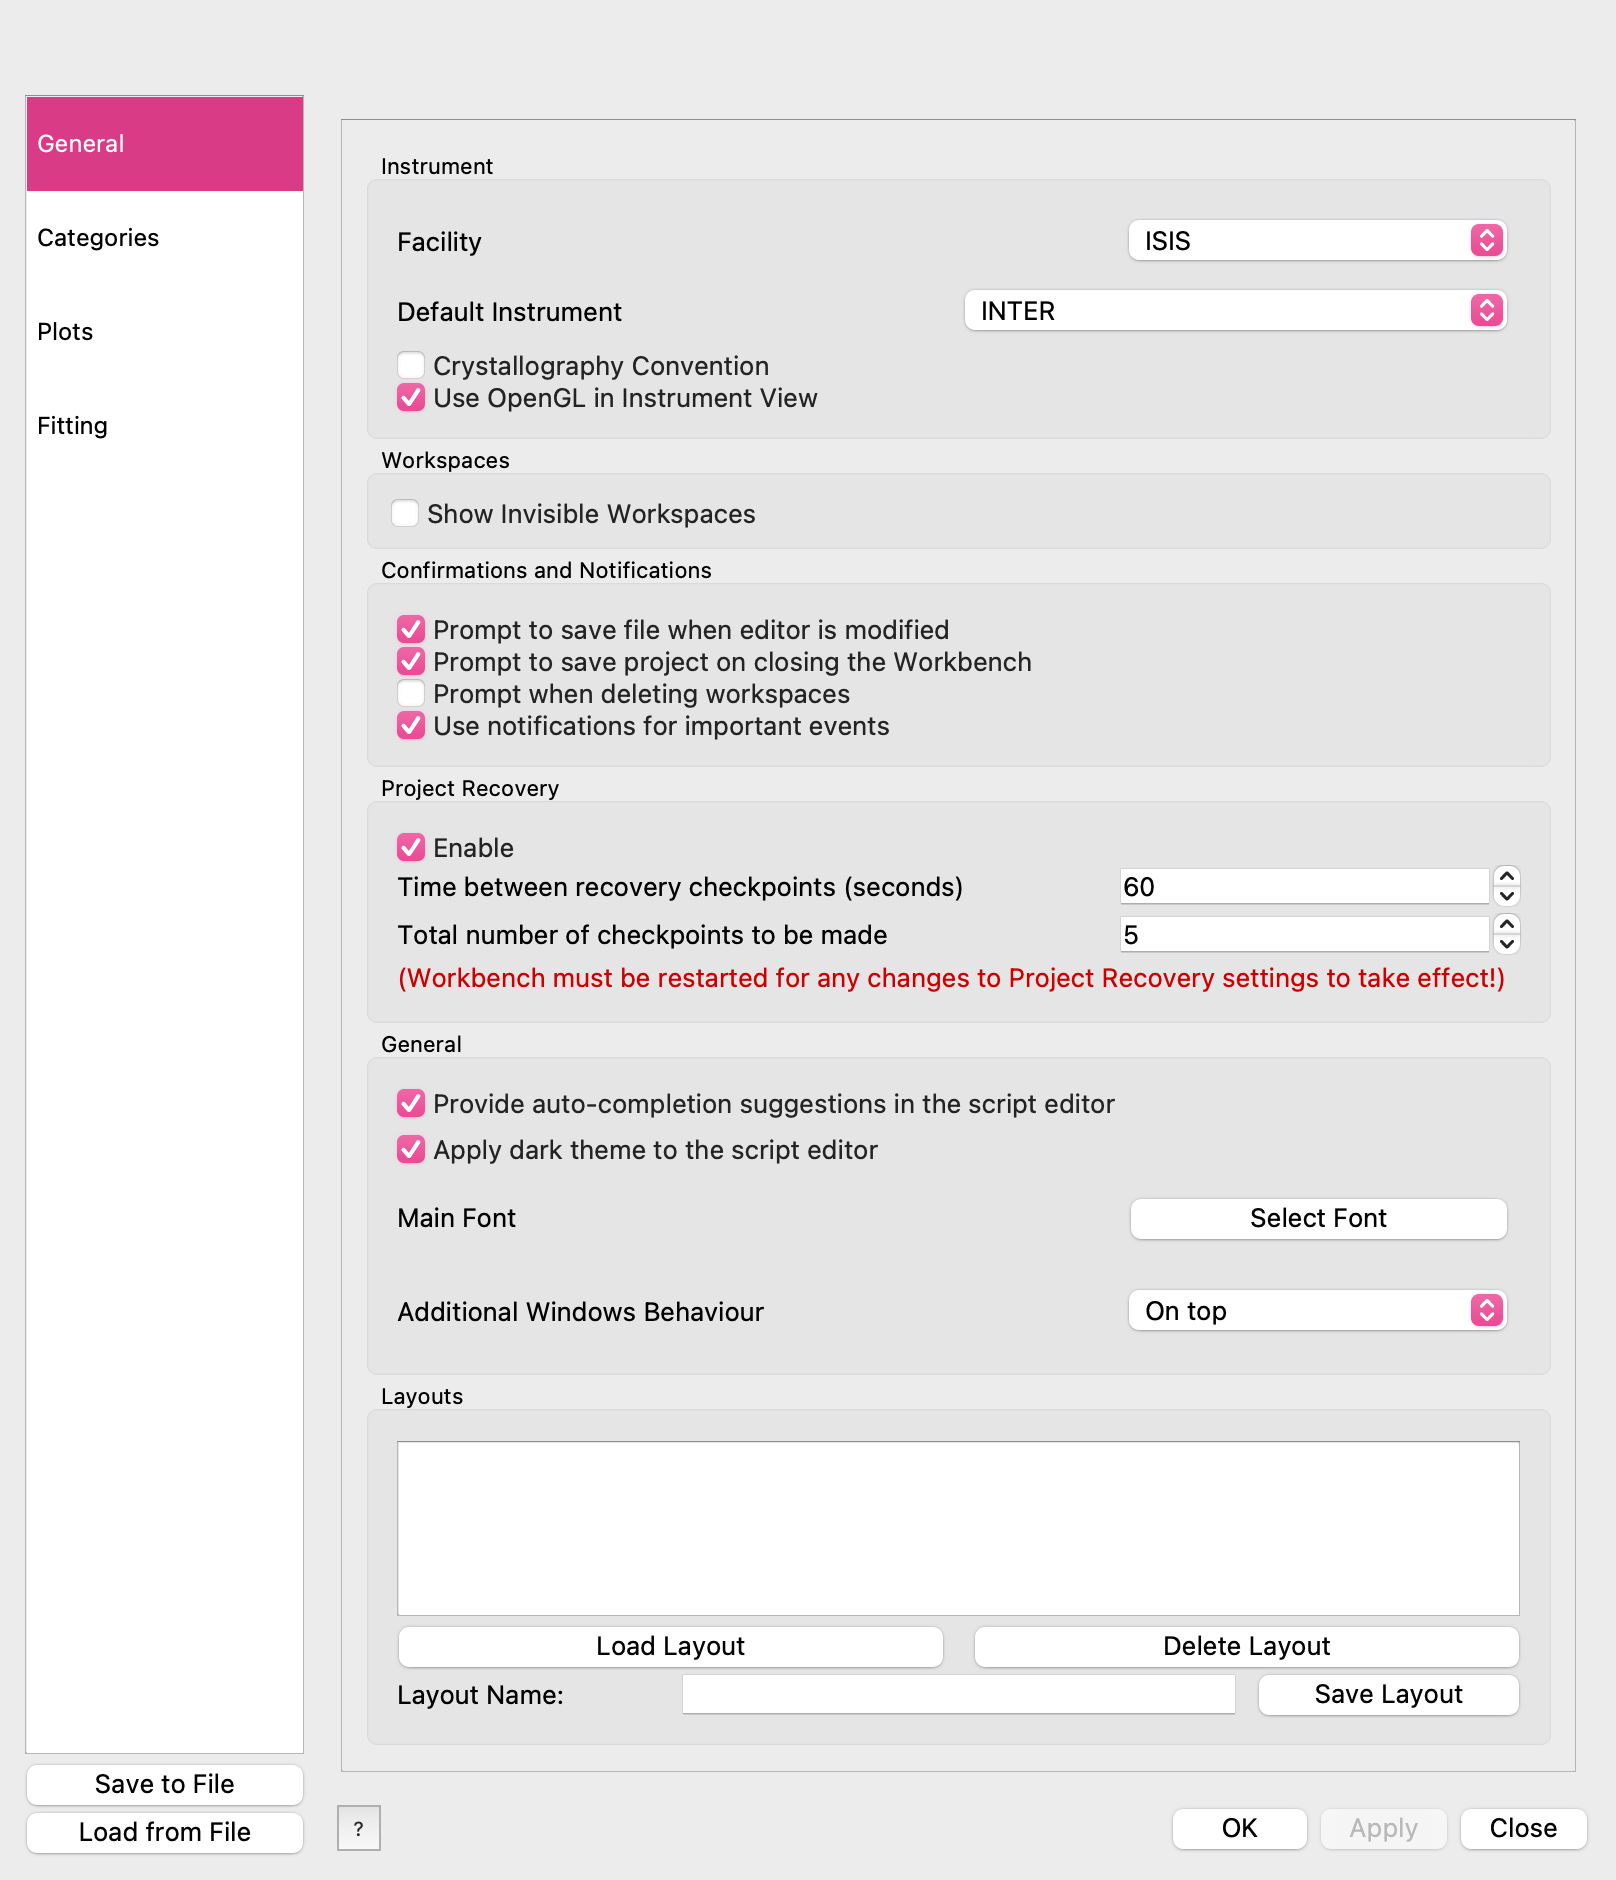
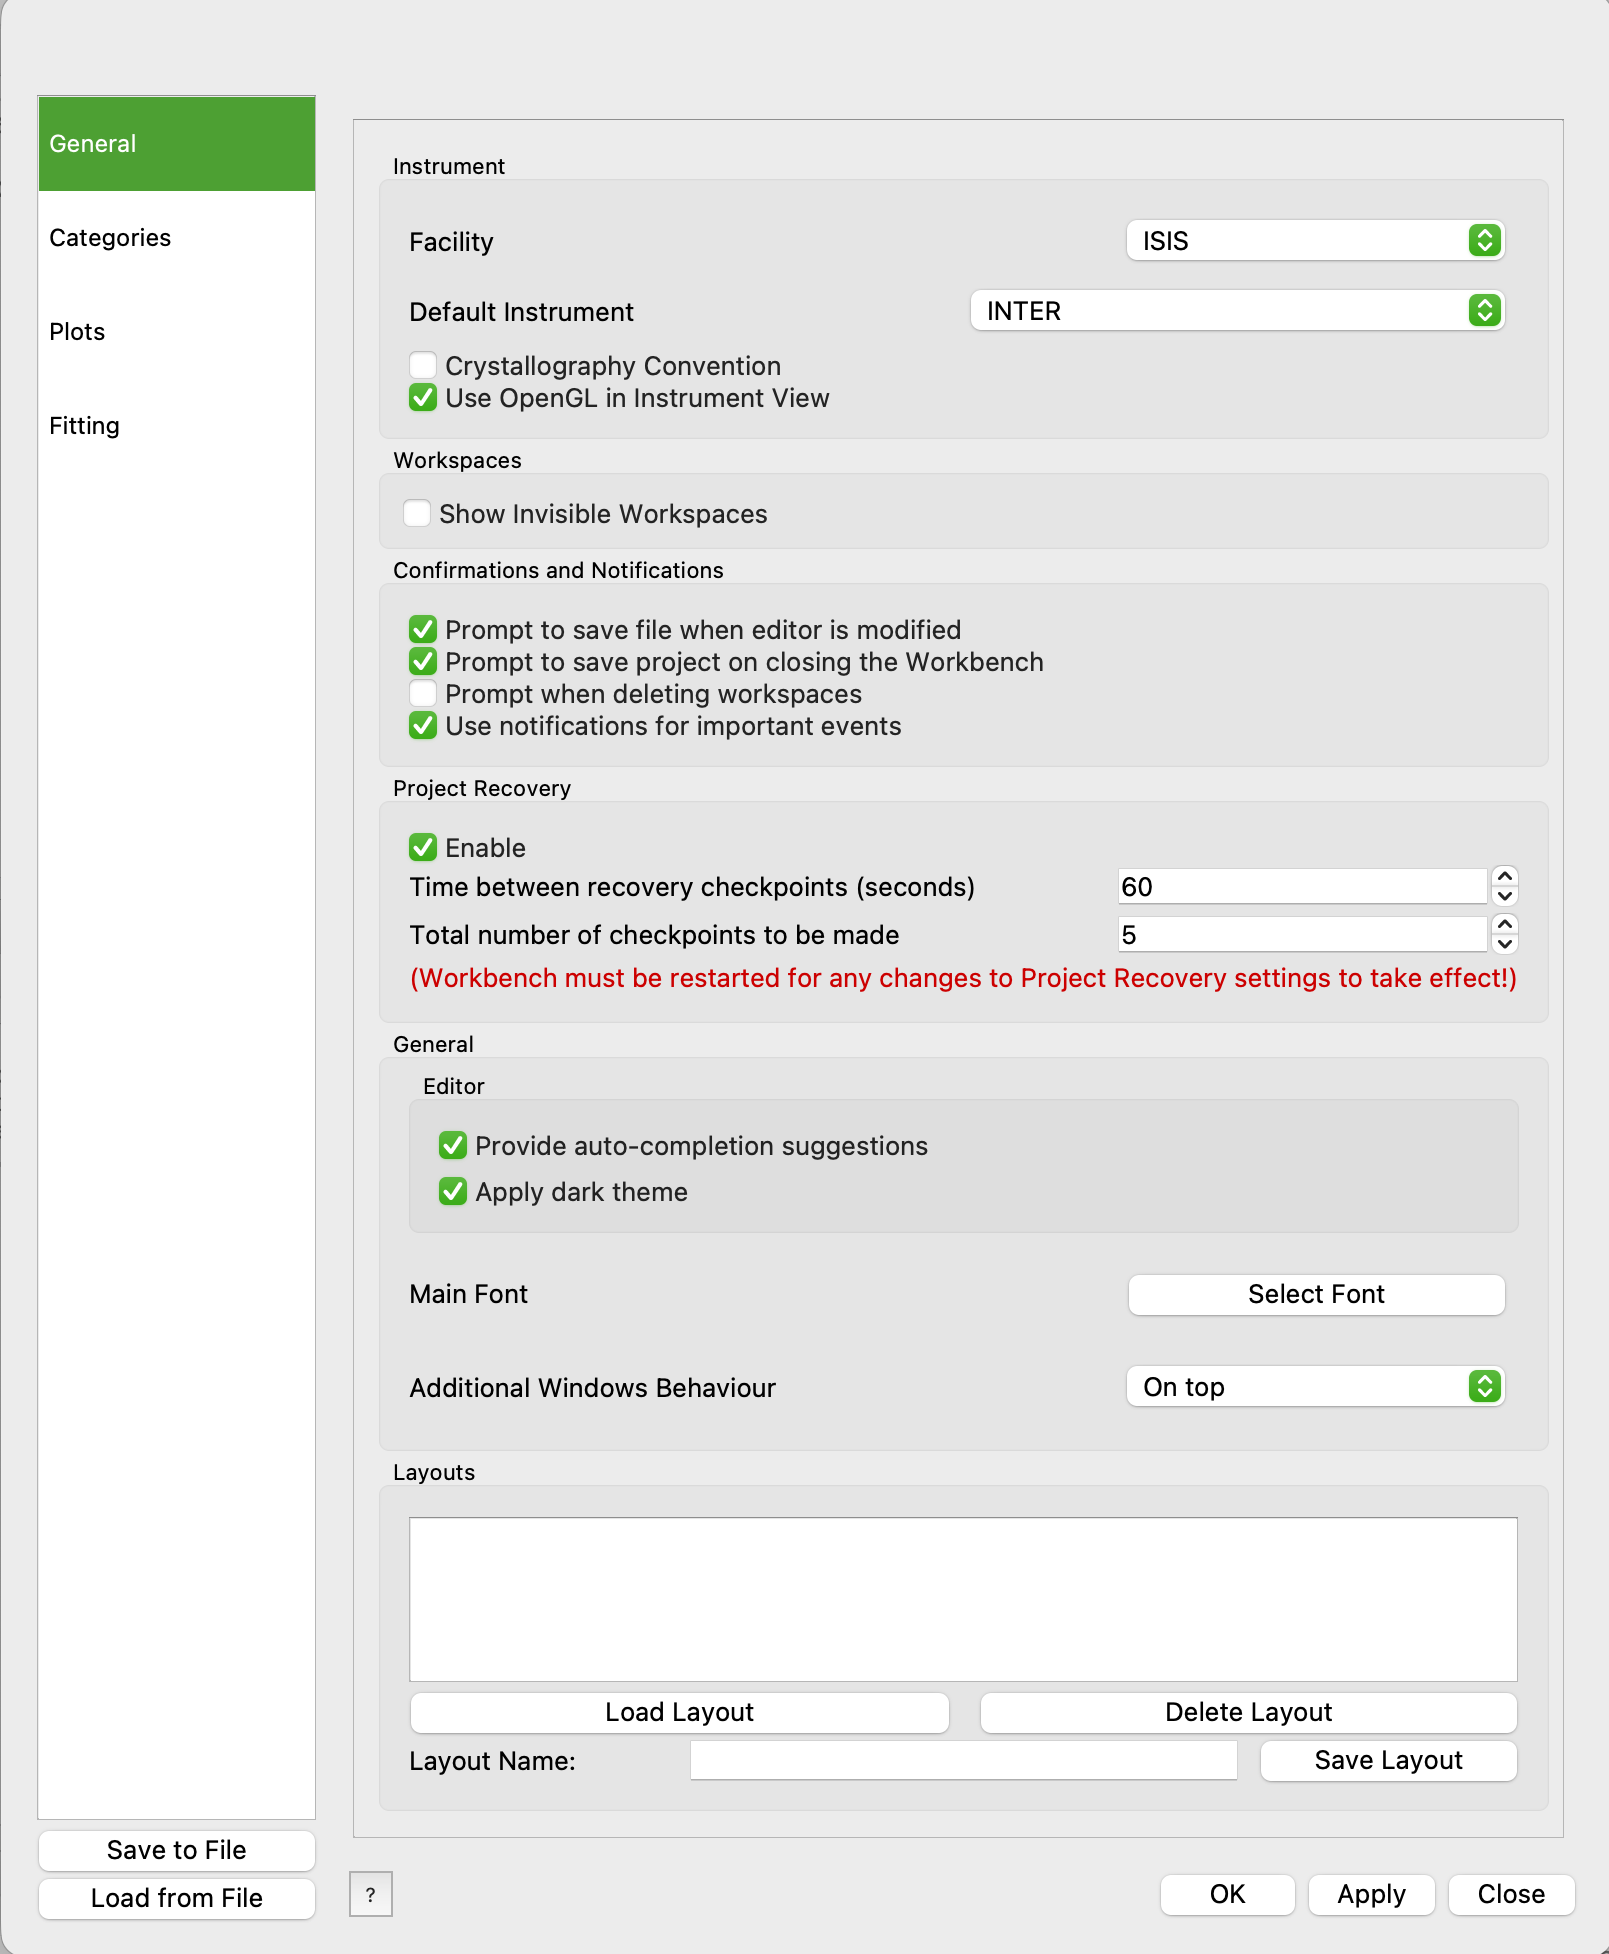
Added group box

diff --git a/docs/source/workbench/scriptwindow.rst b/docs/source/workbench/scriptwindow.rst
@@ -28,7 +28,7 @@ Editor Themes
 .. image:: ../images/Workbench/Editor/EditorDarkTheme.png
 
 The script window supports a dark theme in addition to the default theme. To enable the dark theme, go to :ref:`settings<WorkbenchSettings>` and check the
-"Apply dark theme to the script editor" under the General settings. Click Apply and close the settings window.
+"Apply dark theme" under the Editor group in the General settings tab. Click Apply and close the settings window.
 Click the **+** button to open a new tab (or use the :code:`Ctrl+N` keyboard shortcut). A new tab will open with the dark theme applied.
 
 Editor Options